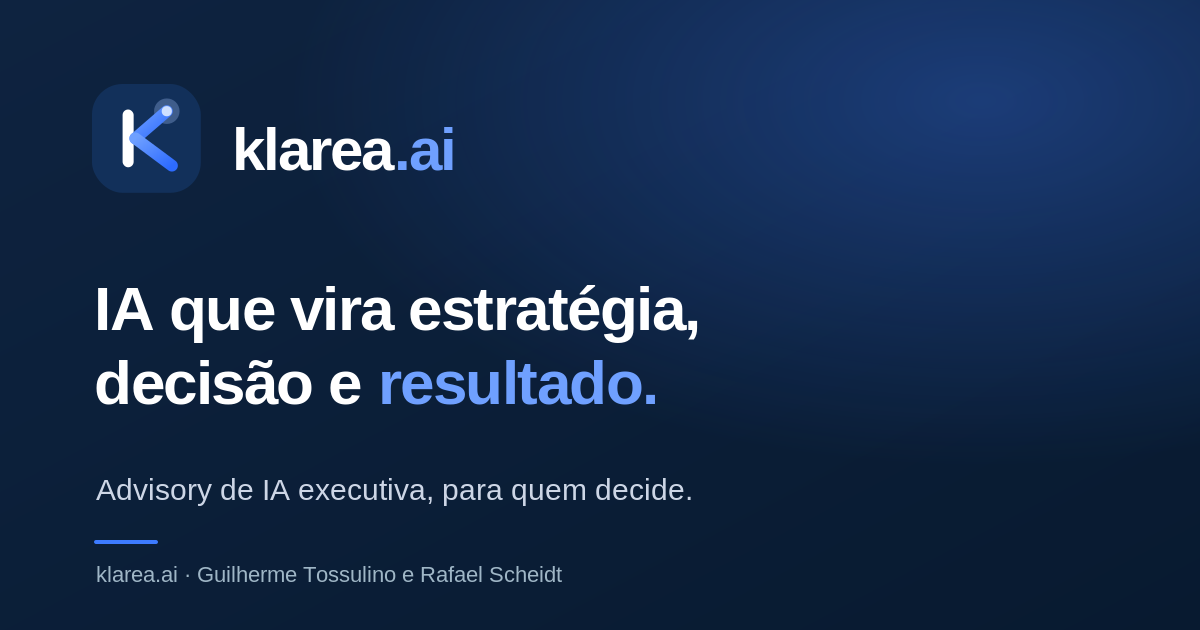
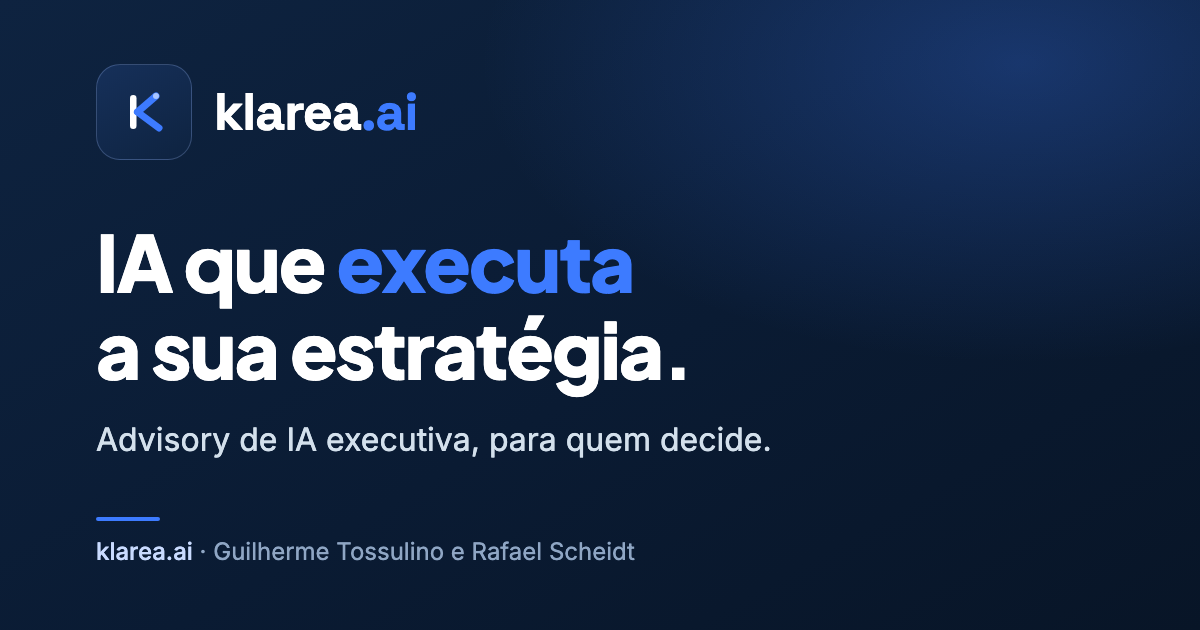
Conteúdo revisado para o público-alvo: tagline única, og.png nova, dores organizacionais, CTA do Score no herói, serviços segmentados, FAQ de porte e formulário enxuto

diff --git a/index.html b/index.html
@@ -11,7 +11,7 @@
   gtag('config', 'G-BY0EFHP73W');
 </script>
 <meta name="viewport" content="width=device-width, initial-scale=1">
-<title>Klarea · Leve a IA ao nível da decisão</title>
+<title>Klarea · IA que executa a sua estratégia</title>
 <link rel="icon" type="image/svg+xml" href="/favicon.svg">
 <link rel="apple-touch-icon" href="/favicon.png">
 <link rel="canonical" href="https://klarea.ai/">
@@ -342,9 +342,9 @@
     <p class="sub">A Klarea conecta a IA à execução da sua estratégia: conhecimento e domínio que viram decisão, eficiência e crescimento.</p>
     <div class="cta-row">
       <a class="btn btn-gold" href="#contato">Agendar um diagnóstico</a>
-      <a class="btn btn-ghost" href="#servicos">Ver serviços</a>
+      <a class="btn btn-ghost" href="/diagnostico.html">Medir meu AI-Native Score · 2 min</a>
     </div>
-    <p class="micro">Diagnóstico de 30 minutos. Sem deck de vendas. Uma leitura objetiva de onde está o seu maior valor.</p>
+    <p class="micro">Diagnóstico de 30 minutos. Sem deck de vendas. Uma leitura objetiva de onde a IA cria mais valor no seu negócio.</p>
     <div class="trust">
       <div class="it"><b>Da estratégia à produção</b>agentes, dados e growth, não só slides</div>
       <div class="it"><b>Resultado</b>estratégia, receita e margem</div>
@@ -394,12 +394,12 @@
     <div class="label">Soa familiar?</div>
     <h2 class="sec serif">Todo mundo usa IA. Quase ninguém com profundidade.</h2>
     <hr class="sec-rule">
-    <p class="muted" style="max-width:720px">O conteúdo por aí é genérico. Cada fornecedor promete transformação. Ninguém ensina a usar IA com profundidade no seu contexto e no seu cargo.</p>
+    <p class="muted" style="max-width:720px">O conteúdo por aí é genérico. Cada fornecedor promete transformação. E a cobrança por resultado com IA só cresce, no seu cargo e na sua empresa.</p>
     <div class="pains">
       <div class="pain"><h4>Você usa, mas na superfície</h4><p>IA virou um “Google melhorado” no dia a dia. Dá para sentir que sobra potencial, mas falta repertório para ir além do óbvio.</p></div>
-      <div class="pain"><h4>Falta base para decidir</h4><p>Aprovar projetos, avaliar fornecedores e abrir as demandas certas sem depender só do time técnico exige um conhecimento que ninguém te deu.</p></div>
-      <div class="pain"><h4>Pilotos que não viram domínio</h4><p>Experiências soltas que impressionam na demo e não viram competência real nem resultado que se sustente.</p></div>
-      <div class="pain"><h4>Cursos genéricos não resolvem</h4><p>Conteúdo de prateleira não responde ao seu setor, ao seu cargo e às decisões que só você toma.</p></div>
+      <div class="pain"><h4>A pauta chegou ao conselho</h4><p>O board cobra uma posição sobre IA e a resposta ainda é vaga. Falta um mapa: maturidade, prioridades e quem responde pelo quê.</p></div>
+      <div class="pain"><h4>O concorrente anunciou IA</h4><p>Você não sabe dizer se é vantagem real ou teatro. Menos ainda quanto tempo tem para responder.</p></div>
+      <div class="pain"><h4>Pilotos que não viram resultado</h4><p>Experiências soltas que impressionam na demo e não viram competência real nem resultado que se sustente.</p></div>
     </div>
   </div>
 </section>
@@ -410,18 +410,18 @@
     <div class="label">O que oferecemos</div>
     <h2 class="sec serif">Serviços</h2>
     <hr class="sec-rule">
-    <p class="muted" style="max-width:760px">Da fluência de quem decide à IA rodando no negócio. Comece pela mentoria pessoal ou pelo Assessment, conforme o seu momento.</p>
+    <p class="muted" style="max-width:760px">Dois começos possíveis. Por você, com a mentoria individual. Ou pela empresa, com o Assessment. Os dois caminhos se encontram: IA rodando no negócio.</p>
     <div class="card" style="border-left:4px solid var(--gold);margin-top:18px">
-      <div class="n">Porta de entrada · sem compromisso, sem prazo</div>
+      <div class="n">Para você, líder · sem compromisso, sem prazo</div>
       <h4>Mentoria de Fluência Executiva</h4>
       <p>Antes de qualquer projeto, a IA na sua rotina. Sessões um a um em que pegamos as suas tarefas reais e colocamos a IA para trabalhar. Você sente o ganho na pele e a empresa ganha um líder que sabe o que pedir. É daqui que nascem os projetos certos.</p>
     </div>
     <div class="grid g3" style="margin-top:18px">
-      <div class="card"><div class="n">Diagnóstico · 3 a 5 semanas</div><h4>Assessment de Maturidade</h4><p>Medimos o seu AI-Native Score, comparamos com o setor e entregamos um roadmap priorizado. O ponto de partida.</p></div>
+      <div class="card"><div class="n">Para a sua empresa · 3 a 5 semanas</div><h4>Assessment de Maturidade</h4><p>Medimos o seu AI-Native Score, comparamos com o setor e entregamos um roadmap priorizado. O ponto de partida da empresa.</p></div>
       <div class="card"><div class="n">Implementação · poucas semanas</div><h4>Sprint AI-native</h4><p>Colocamos o seu caso de maior alavancagem em produção, com um resultado mensurável acordado. Da estratégia à arquitetura.</p></div>
       <div class="card"><div class="n">Programa</div><h4>Governança de IA</h4><p>Uso, produtos e valor: usar mais IA com menos exposição, com LGPD, EU AI Act e guardrails.</p></div>
     </div>
-    <div class="center" style="margin-top:30px"><a class="btn btn-gold" href="#contato">Começar pelo Assessment</a></div>
+    <div class="center" style="margin-top:30px"><a class="btn btn-gold" href="#contato">Agendar uma conversa</a></div>
   </div>
 </section>
 
@@ -443,7 +443,7 @@
       <div class="recv">
         <h4>O que você recebe</h4>
         <ul>
-          <li>Programa estruturado e mão na massa, turma reduzida</li>
+          <li>Programa estruturado e mão na massa, conduzido pelos dois sócios</li>
           <li>Estratégia com Tossulino: visão, modelo e onde a IA cria valor</li>
           <li>Arquitetura com Scheidt: implementação, ferramentas e agentes em produção</li>
           <li>Um caso de alta alavancagem no ar, com resultado medido</li>
@@ -588,6 +588,7 @@
     <details><summary>Vocês só aconselham ou também constroem?</summary><p>Os dois. Conduzimos da estratégia à arquitetura em produção: agentes, integrações via MCP e APIs, RAG sobre os seus dados, avaliação e observabilidade. Quando a execução exige, trazemos a capacidade técnica para construir junto com o seu time.</p></details>
     <details><summary>E a governança e a segurança?</summary><p>É parte central do trabalho. Cuidamos da governança em três níveis: do uso (política, shadow AI, LGPD), dos produtos de IA em produção (guardrails, evals, auditoria, EU AI Act) e do valor (regras que liberam a adoção com segurança). O objetivo é usar mais IA, com menos exposição.</p></details>
     <details><summary>Vocês são independentes? Têm conflito com fornecedores?</summary><p>Somos independentes. Não revendemos software nem recebemos comissão de fornecedores, então a recomendação é sempre no seu interesse: o que construir, o que comprar e o que evitar. Toda conversa é confidencial.</p></details>
+    <details><summary>Atendem empresas de que porte?</summary><p>O trabalho rende mais em médias e grandes empresas: onde há processos, dados e uma liderança cobrada por resultado. A Mentoria de Fluência Executiva, por ser individual, é aberta a líderes de qualquer contexto.</p></details>
     <details><summary>Quanto custa?</summary><p>O investimento é desenhado sob medida conforme o escopo (diagnóstico, sprint, mentoria ou governança). Agende o diagnóstico de 30 minutos e preparamos uma proposta para o seu contexto.</p></details>
   </div>
 </section>
@@ -610,7 +611,6 @@
         <select name="Tamanho da empresa"><option value="" disabled selected>Tamanho da empresa</option><option>Até 50 colaboradores</option><option>51 a 200</option><option>201 a 500</option><option>501 a 1.000</option><option>Mais de 1.000</option></select>
         <select name="Segmento"><option value="" disabled selected>Segmento</option><option>Indústria</option><option>Varejo e consumo</option><option>Serviços financeiros</option><option>Tecnologia / SaaS</option><option>Saúde</option><option>Agronegócio</option><option>Serviços</option><option>Outro</option></select>
       </div>
-      <select name="Maturidade em IA"><option value="" disabled selected>Sua maturidade em IA hoje (autoavaliação)</option><option>1 · Curioso (uso pessoal e pontual)</option><option>2 · Experimental (pilotos isolados)</option><option>3 · Operacional (IA em processos)</option><option>4 · Estratégico (na agenda da liderança)</option><option>5 · AI-native (no core do negócio)</option></select>
       <textarea name="Mensagem" rows="3" placeholder="Conte rapidamente o seu contexto e o que você quer destravar"></textarea>
       <button class="btn btn-gold" type="submit">Agendar diagnóstico</button>
       <p class="form-status" id="formStatus" role="status" aria-live="polite" style="display:none"></p>
@@ -635,7 +635,7 @@
 <footer>
   <div class="wrap">
     <div style="display:flex;align-items:center;gap:10px"><svg width="26" height="26" viewBox="0 0 64 64" aria-hidden="true"><rect x="18" y="15" width="6.5" height="34" rx="3.25" fill="#fff"/><path d="M44 16 L25.5 32" stroke="#3D7BFF" stroke-width="7" stroke-linecap="round" fill="none"/><path d="M25.5 32 L47 48" stroke="#3D7BFF" stroke-width="7" stroke-linecap="round" fill="none"/><circle cx="44" cy="16" r="3" fill="#A9C5FF"/></svg><div><b style="font-family:'Space Grotesk',sans-serif;font-weight:700;letter-spacing:-.3px">klarea.ai</b> · Advisory de IA Executiva<br>Guilherme Tossulino &amp; Rafael Scheidt</div></div>
-    <div style="text-align:right">klarea.ai · IA no nível da decisão.<br>© 2026 Klarea. Todos os direitos reservados &middot; <a href="/privacidade.html" style="color:#A9C5FF">Privacidade</a> &middot; <a href="/termos.html" style="color:#A9C5FF">Termos</a></div>
+    <div style="text-align:right">klarea.ai · IA que executa a sua estratégia.<br>© 2026 Klarea. Todos os direitos reservados &middot; <a href="/privacidade.html" style="color:#A9C5FF">Privacidade</a> &middot; <a href="/termos.html" style="color:#A9C5FF">Termos</a></div>
   </div>
 </footer>
 

diff --git a/conteudos.html b/conteudos.html
@@ -19,7 +19,7 @@
 <meta property="og:site_name" content="Klarea">
 <meta property="og:locale" content="pt_BR">
 <meta property="og:url" content="https://klarea.ai/conteudos.html">
-<meta property="og:title" content="Conteúdos Klarea — IA no nível da decisão">
+<meta property="og:title" content="Conteúdos Klarea — IA que executa a sua estratégia">
 <meta property="og:description" content="Artigos dos sócios e materiais ricos para download sobre IA, estratégia e governança para conselhos e C-levels.">
 <meta property="og:image" content="https://klarea.ai/og.png">
 <meta name="description" content="Conteúdos da Klarea: artigos produzidos pelos sócios e materiais ricos para download sobre IA, estratégia, execução e governança para quem decide.">
@@ -123,7 +123,7 @@
 <header class="head">
   <div class="wrap">
     <span class="kicker">Conteúdos</span>
-    <h1 class="serif">IA no nível da decisão.</h1>
+    <h1 class="serif">IA que executa a sua estratégia.</h1>
     <p>Artigos dos sócios e materiais para levar à mesa. Sem hype, com a leitura de quem executa estratégia e constrói os sistemas que a entregam.</p>
   </div>
 </header>
